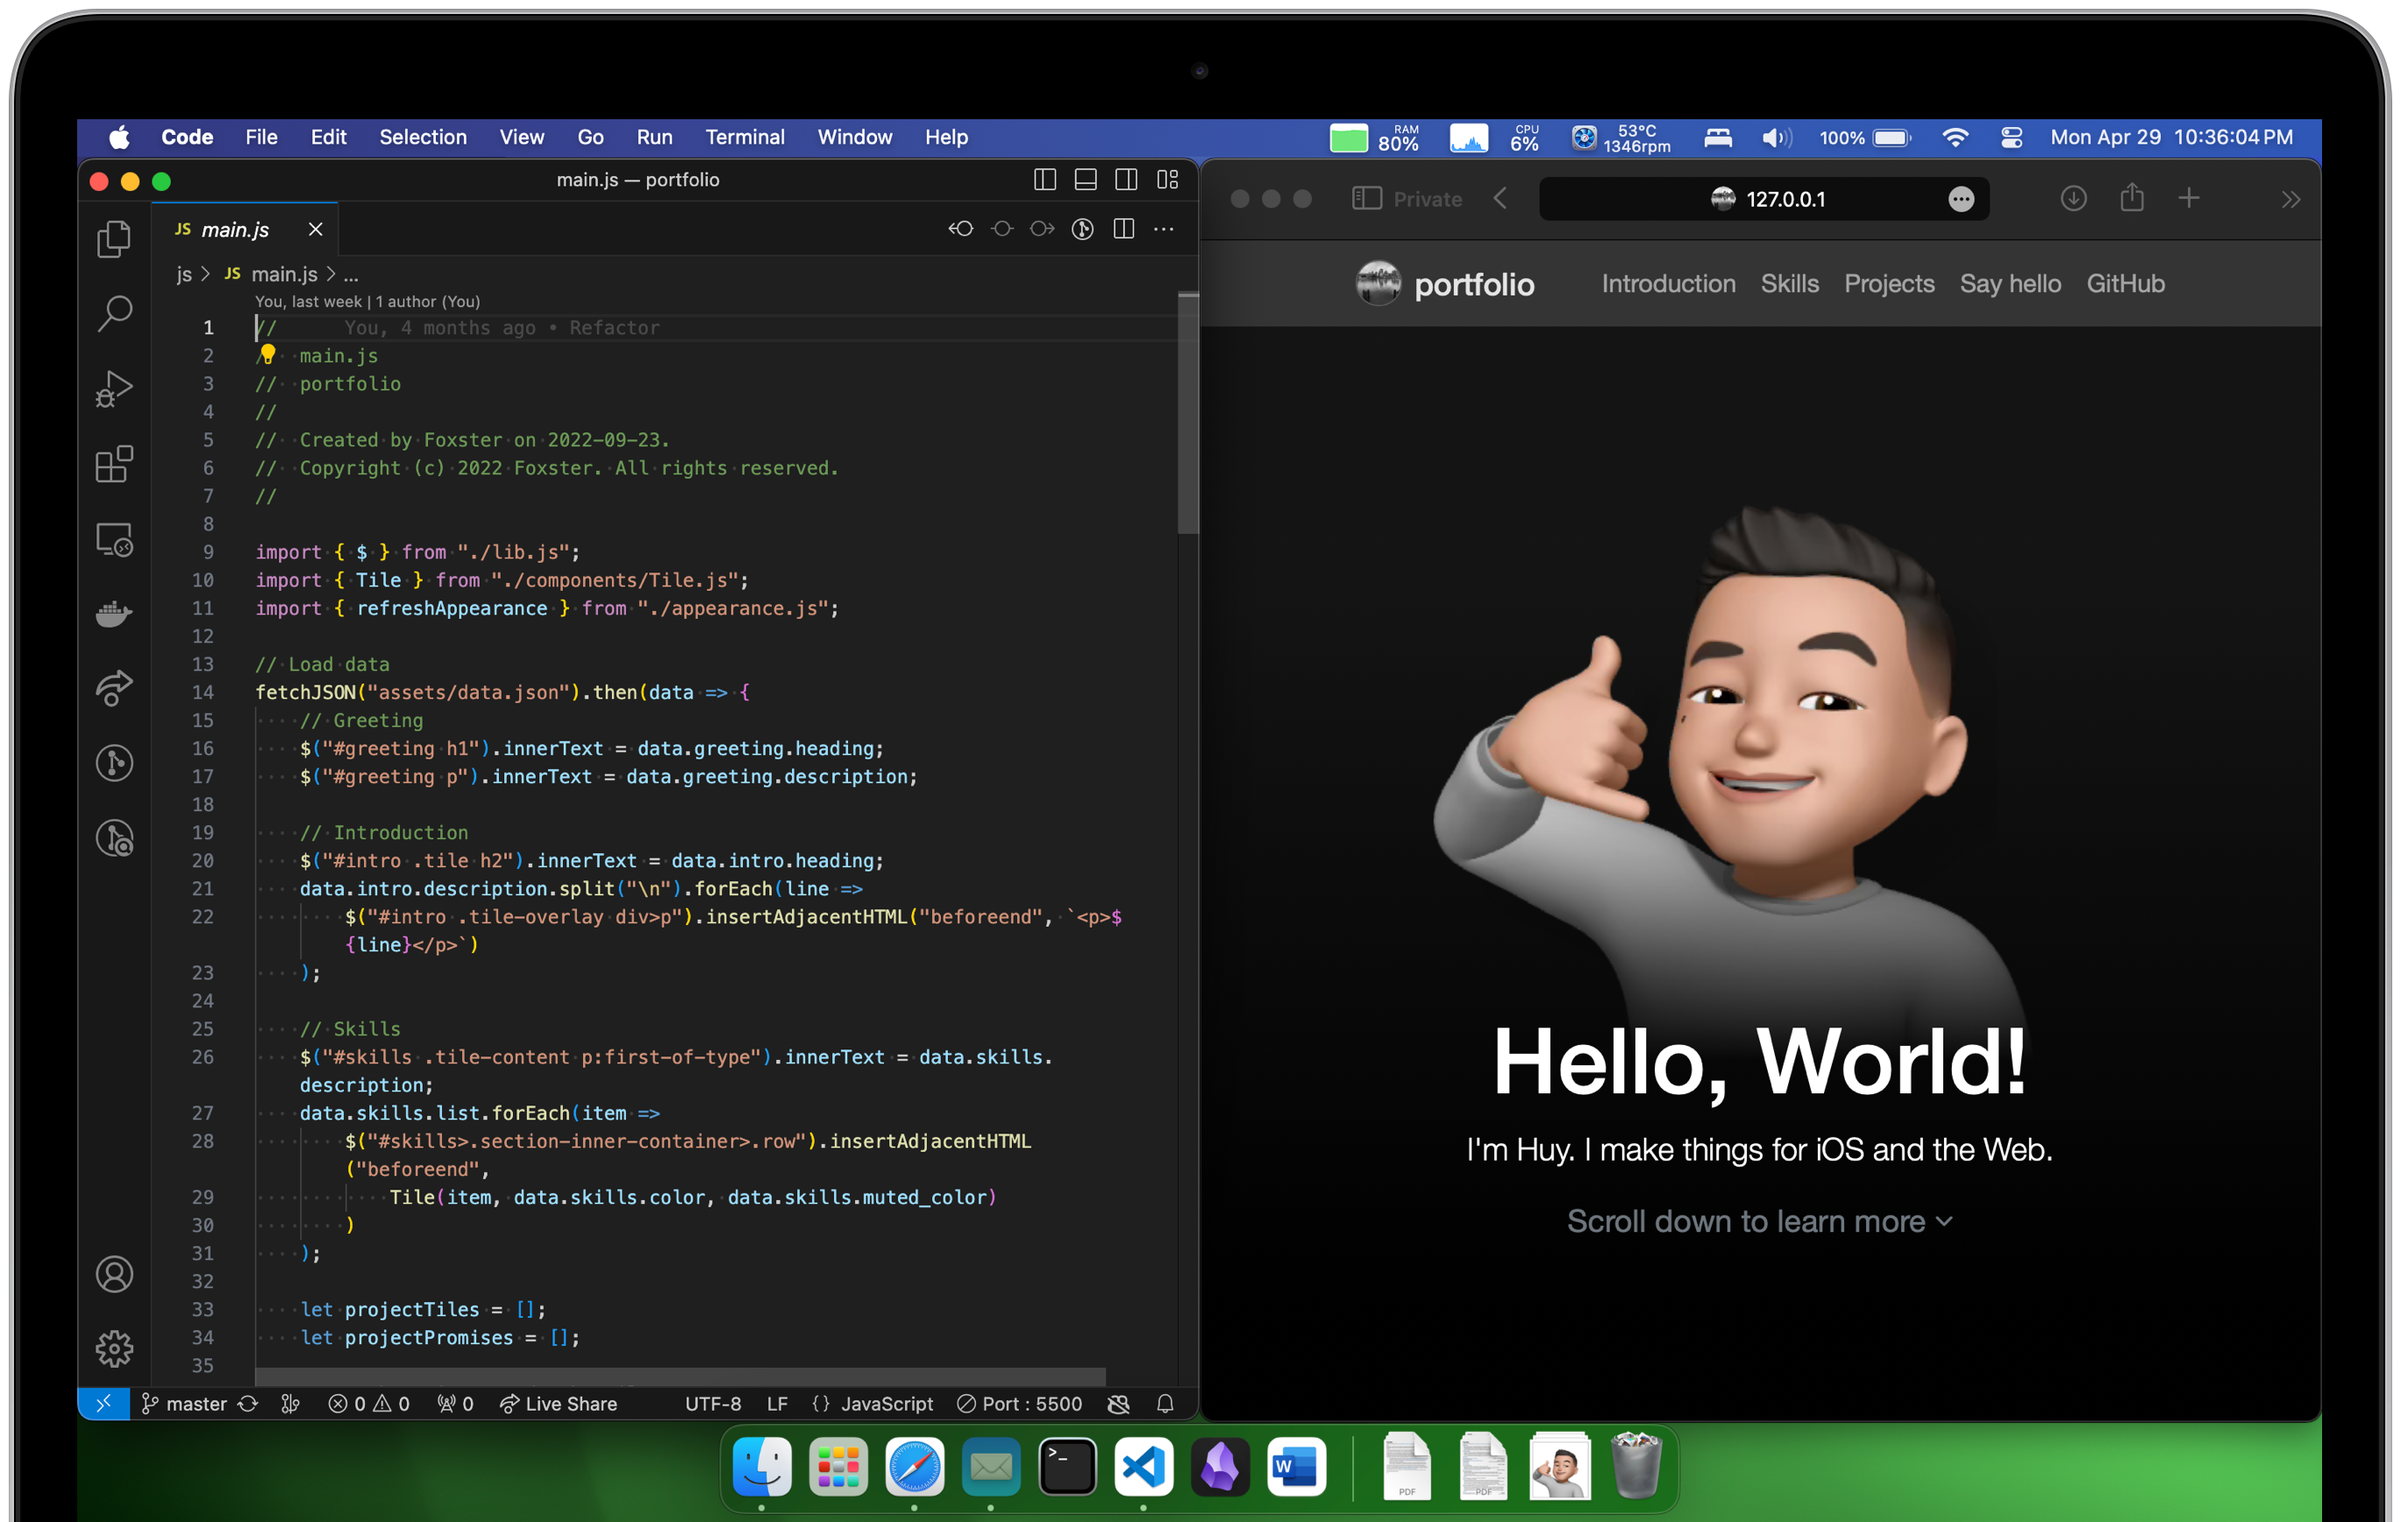
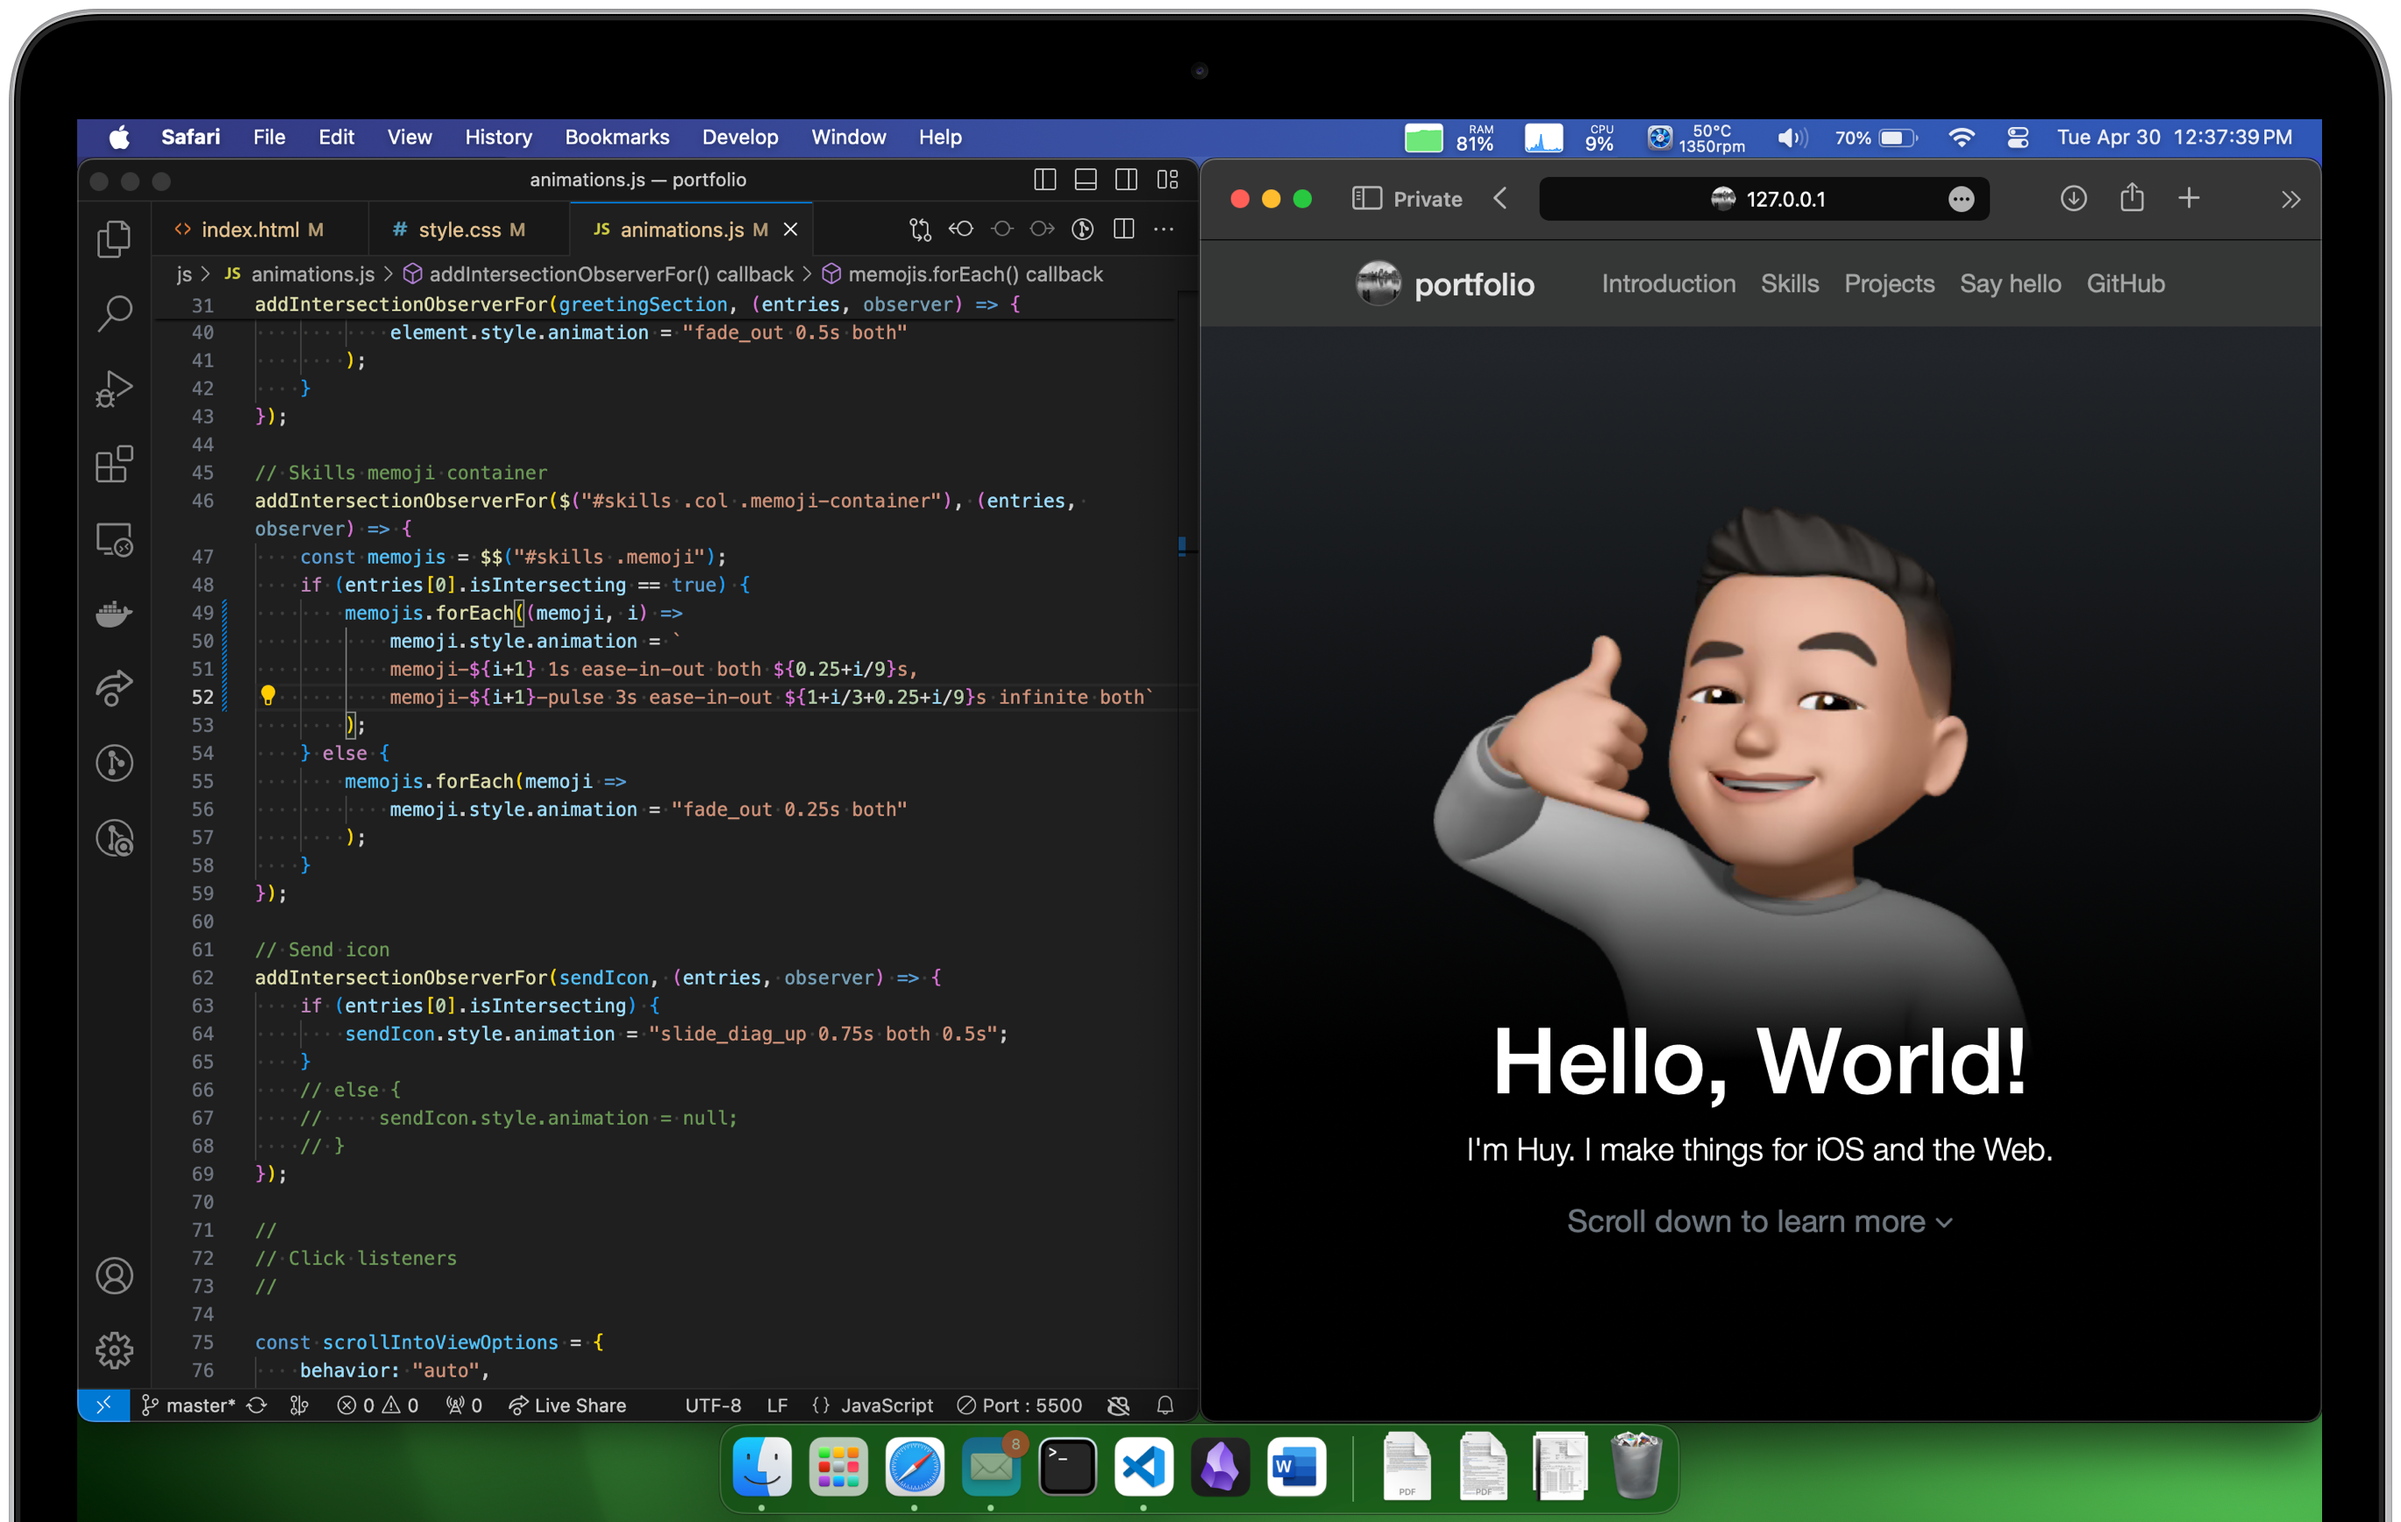
More UI changes Update Memojis animations Update greeting section's gradient color Update portfolio screenshot

diff --git a/css/style.css b/css/style.css
@@ -18,7 +18,7 @@
   --dark-bg-color: rgb(33, 37, 41);
   /* --greeting-gradient: linear-gradient(rgb(6, 15, 33) 30%, black 90%); */
   /* --greeting-gradient: linear-gradient(rgb(33, 0, 20) 30%, black 90%); */
-  --greeting-gradient: linear-gradient(rgb(20, 20, 20) 30%, black 90%);
+  --greeting-gradient: linear-gradient(var(--dark-bg-color) 10%, black 70%);
   --nav-height: calc(1rem + 40px);
   --nav-background: rgba(240, 240, 240, 0.9);
   --nav-background-dark: rgb(55, 55, 55, 0.9);
@@ -1063,6 +1063,30 @@ i.bi.bi-chevron-down {
   }
 }
 
+@keyframes memoji-1-pulse {
+
+  0%,
+  100% {
+    transform: translate(0px, 0px);
+  }
+
+  50% {
+    transform: translate(6px, 8px);
+  }
+}
+
+@-webkit-keyframes memoji-1-pulse {
+
+  0%,
+  100% {
+    transform: translate(0px, 0px);
+  }
+
+  50% {
+    transform: translate(6px, 8px);
+  }
+}
+
 @keyframes memoji-2 {
   from {
     transform: translateY(35px);
@@ -1087,6 +1111,42 @@ i.bi.bi-chevron-down {
   }
 }
 
+@keyframes memoji-2-pulse {
+
+  0%,
+  100% {
+    transform: translateY(0px);
+  }
+
+  50% {
+    transform: translateY(9px);
+  }
+}
+
+@-webkit-keyframes memoji-2-pulse {
+
+  0%,
+  100% {
+    transform: translateY(0px);
+  }
+
+  50% {
+    transform: translateY(9px);
+  }
+}
+
+@-webkit-keyframes memoji-2-pulse {
+
+  0%,
+  100% {
+    transform: translateY(0px);
+  }
+
+  50% {
+    transform: translateY(9px);
+  }
+}
+
 @keyframes memoji-3 {
   from {
     transform: translate(-60px, 80px);
@@ -1108,6 +1168,30 @@ i.bi.bi-chevron-down {
   to {
     transform: translate(0px, 0px);
     opacity: 1;
+  }
+}
+
+@keyframes memoji-3-pulse {
+
+  0%,
+  100% {
+    transform: translate(0px, 0px);
+  }
+
+  50% {
+    transform: translate(-6px, 8px);
+  }
+}
+
+@-webkit-keyframes memoji-3-pulse {
+
+  0%,
+  100% {
+    transform: translate(0px, 0px);
+  }
+
+  50% {
+    transform: translate(-6px, 8px);
   }
 }
 

diff --git a/index.html b/index.html
@@ -221,7 +221,7 @@
               <div class="row row-cols-1 g-3 g-md-4">
                 <div class="col">
                   <div class="tile bg-white rounded-5 d-flex flex-column"
-                    style="min-height: unset !important; background: linear-gradient(15deg, var(--my-dark-grey), var(--my-light-dark-grey)); overflow: hidden;">
+                    style="min-height: unset !important; background: linear-gradient(25deg, var(--my-dark-grey) 45%, var(--my-light-dark-grey) 90%); overflow: hidden;">
                     <!-- Content -->
                     <div class="tile-content row row-cols-1" style="height: 80vh">
                       <!-- Text -->

diff --git a/js/animations.js b/js/animations.js
@@ -46,8 +46,10 @@ addIntersectionObserverFor(greetingSection, (entries, observer) => {
 addIntersectionObserverFor($("#skills .col .memoji-container"), (entries, observer) => {
     const memojis = $$("#skills .memoji");
     if (entries[0].isIntersecting == true) {
-        memojis.forEach((memoji, index) =>
-            memoji.style.animation = `memoji-${index + 1} 1s both 0.25s`
+        memojis.forEach((memoji, i) =>
+            memoji.style.animation = `
+            memoji-${i+1} 1s ease-in-out both ${0.25+i/9}s,
+            memoji-${i+1}-pulse 3s ease-in-out ${1+i/3+0.25+i/9}s infinite both`
         );
     } else {
         memojis.forEach(memoji =>
